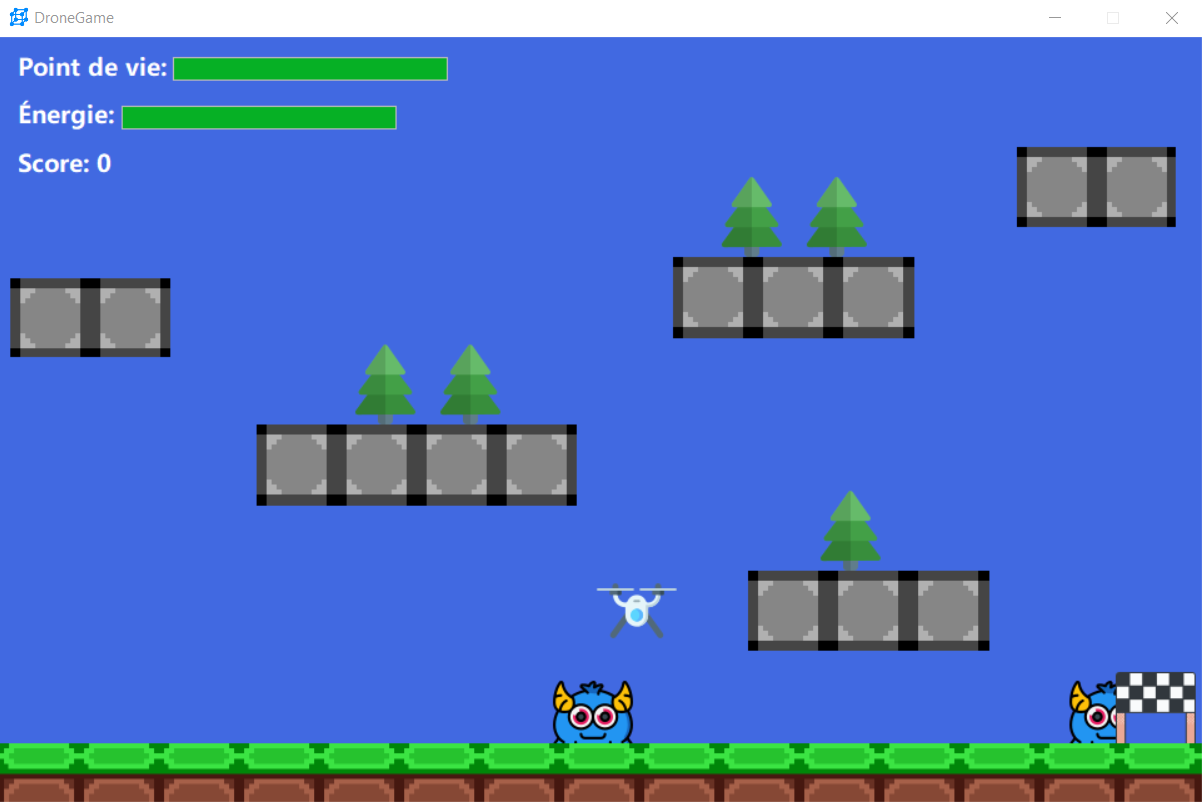
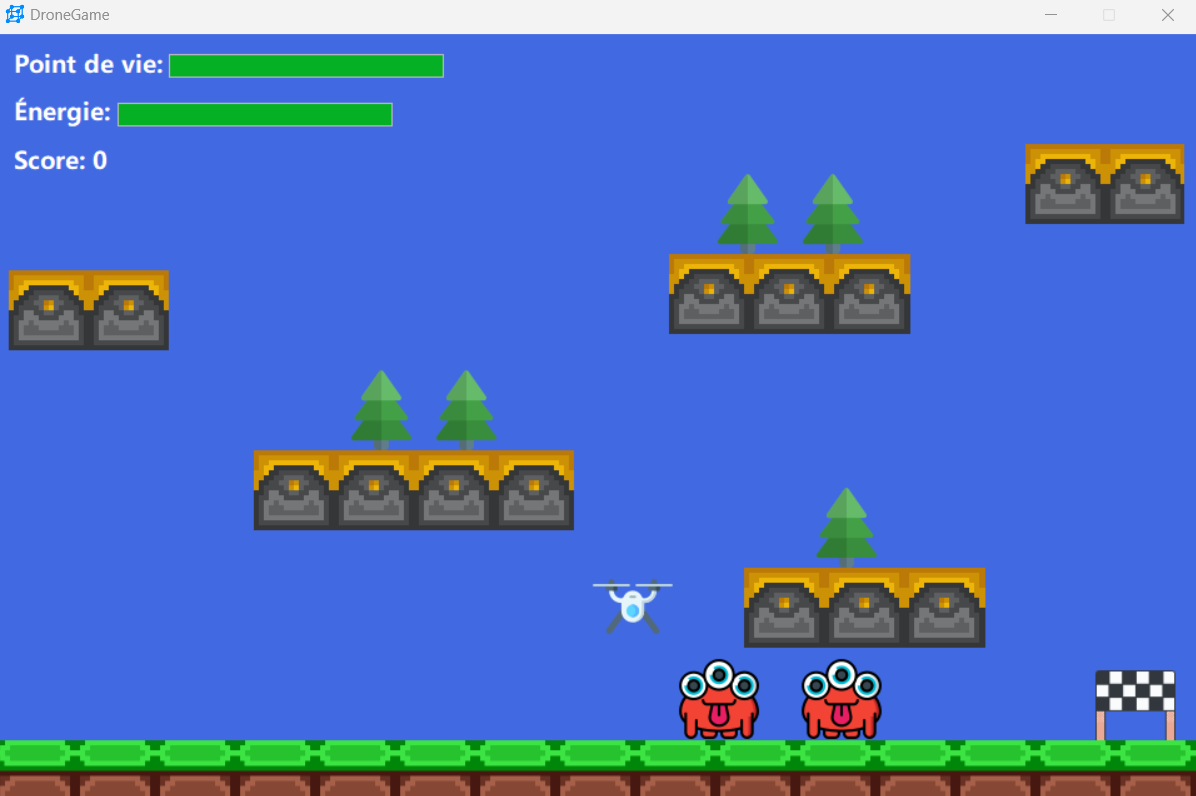
Add dynamite to the game + fixes.

diff --git a/main.Designer.cs b/main.Designer.cs
@@ -51,6 +51,8 @@ namespace DroneGame
             this.pineTree4 = new System.Windows.Forms.PictureBox();
             this.pineTree5 = new System.Windows.Forms.PictureBox();
             this.pineTree6 = new System.Windows.Forms.PictureBox();
+            this.dynamiteCountDown = new System.Windows.Forms.Timer(this.components);
+            this.dynamiteSpawnDelay = new System.Windows.Forms.Timer(this.components);
             ((System.ComponentModel.ISupportInitialize)(this.pineTree1)).BeginInit();
             ((System.ComponentModel.ISupportInitialize)(this.grass)).BeginInit();
             ((System.ComponentModel.ISupportInitialize)(this.Drone)).BeginInit();
@@ -127,13 +129,13 @@ namespace DroneGame
             // PositionDetector
             // 
             this.PositionDetector.Enabled = true;
-            this.PositionDetector.Interval = 4000;
+            this.PositionDetector.Interval = 6000;
             this.PositionDetector.Tick += new System.EventHandler(this.PositionChecker);
             // 
             // pineTree1
             // 
             this.pineTree1.Image = global::DroneGame.Properties.Resources.pine_tree;
-            this.pineTree1.Location = new System.Drawing.Point(369, 303);
+            this.pineTree1.Location = new System.Drawing.Point(369, 331);
             this.pineTree1.Margin = new System.Windows.Forms.Padding(3, 2, 3, 2);
             this.pineTree1.Name = "pineTree1";
             this.pineTree1.Size = new System.Drawing.Size(64, 64);
@@ -166,7 +168,7 @@ namespace DroneGame
             // Flag
             // 
             this.Flag.Image = global::DroneGame.Properties.Resources.finish_line;
-            this.Flag.Location = new System.Drawing.Point(1191, 625);
+            this.Flag.Location = new System.Drawing.Point(1173, 626);
             this.Flag.Margin = new System.Windows.Forms.Padding(3, 2, 3, 2);
             this.Flag.Name = "Flag";
             this.Flag.Size = new System.Drawing.Size(64, 64);
@@ -178,7 +180,7 @@ namespace DroneGame
             // stoneBlockE
             // 
             this.stoneBlockE.BackgroundImage = global::DroneGame.Properties.Resources.stone;
-            this.stoneBlockE.Location = new System.Drawing.Point(1085, 108);
+            this.stoneBlockE.Location = new System.Drawing.Point(1099, 108);
             this.stoneBlockE.Margin = new System.Windows.Forms.Padding(3, 2, 3, 2);
             this.stoneBlockE.Name = "stoneBlockE";
             this.stoneBlockE.Size = new System.Drawing.Size(169, 79);
@@ -189,10 +191,10 @@ namespace DroneGame
             // stoneBlockA
             // 
             this.stoneBlockA.BackgroundImage = global::DroneGame.Properties.Resources.stone;
-            this.stoneBlockA.Location = new System.Drawing.Point(12, 238);
+            this.stoneBlockA.Location = new System.Drawing.Point(15, 233);
             this.stoneBlockA.Margin = new System.Windows.Forms.Padding(3, 2, 3, 2);
             this.stoneBlockA.Name = "stoneBlockA";
-            this.stoneBlockA.Size = new System.Drawing.Size(171, 78);
+            this.stoneBlockA.Size = new System.Drawing.Size(171, 79);
             this.stoneBlockA.TabIndex = 24;
             this.stoneBlockA.TabStop = false;
             this.stoneBlockA.Tag = "Patern";
@@ -203,7 +205,7 @@ namespace DroneGame
             this.stoneBlockC.Location = new System.Drawing.Point(719, 217);
             this.stoneBlockC.Margin = new System.Windows.Forms.Padding(3, 2, 3, 2);
             this.stoneBlockC.Name = "stoneBlockC";
-            this.stoneBlockC.Size = new System.Drawing.Size(257, 80);
+            this.stoneBlockC.Size = new System.Drawing.Size(257, 79);
             this.stoneBlockC.TabIndex = 23;
             this.stoneBlockC.TabStop = false;
             this.stoneBlockC.Tag = "Patern";
@@ -222,10 +224,10 @@ namespace DroneGame
             // stoneBlockB
             // 
             this.stoneBlockB.BackgroundImage = global::DroneGame.Properties.Resources.stone;
-            this.stoneBlockB.Location = new System.Drawing.Point(274, 382);
+            this.stoneBlockB.Location = new System.Drawing.Point(276, 410);
             this.stoneBlockB.Margin = new System.Windows.Forms.Padding(3, 2, 3, 2);
             this.stoneBlockB.Name = "stoneBlockB";
-            this.stoneBlockB.Size = new System.Drawing.Size(342, 80);
+            this.stoneBlockB.Size = new System.Drawing.Size(341, 79);
             this.stoneBlockB.TabIndex = 21;
             this.stoneBlockB.TabStop = false;
             this.stoneBlockB.Tag = "Patern";
@@ -257,7 +259,7 @@ namespace DroneGame
             // pineTree5
             // 
             this.pineTree5.Image = global::DroneGame.Properties.Resources.pine_tree;
-            this.pineTree5.Location = new System.Drawing.Point(460, 303);
+            this.pineTree5.Location = new System.Drawing.Point(460, 331);
             this.pineTree5.Margin = new System.Windows.Forms.Padding(3, 2, 3, 2);
             this.pineTree5.Name = "pineTree5";
             this.pineTree5.Size = new System.Drawing.Size(64, 64);
@@ -277,6 +279,17 @@ namespace DroneGame
             this.pineTree6.TabIndex = 35;
             this.pineTree6.TabStop = false;
             this.pineTree6.Tag = "pineTree";
+            // 
+            // dynamiteCountDown
+            // 
+            this.dynamiteCountDown.Interval = 8000;
+            this.dynamiteCountDown.Tick += new System.EventHandler(this.dynamiteExplode);
+            // 
+            // dynamiteSpawnDelay
+            // 
+            this.dynamiteSpawnDelay.Enabled = true;
+            this.dynamiteSpawnDelay.Interval = 8000;
+            this.dynamiteSpawnDelay.Tick += new System.EventHandler(this.addDynamite);
             // 
             // DroneGameWindow
             // 
@@ -351,6 +364,8 @@ namespace DroneGame
         private System.Windows.Forms.PictureBox pineTree4;
         private System.Windows.Forms.PictureBox pineTree5;
         private System.Windows.Forms.PictureBox pineTree6;
+        private System.Windows.Forms.Timer dynamiteCountDown;
+        private System.Windows.Forms.Timer dynamiteSpawnDelay;
     }
 }
 

diff --git a/main.cs b/main.cs
@@ -14,7 +14,7 @@ namespace DroneGame
         int playerSpeed = 10;
         int stopSpawn = 0;
         int batteryCount = 0;
-
+        
         int[] posXRandom = {
             720,
             40,
@@ -24,17 +24,18 @@ namespace DroneGame
 
         int[] posYrandom = {
             370,
-            137,
+            132,
             31,
-            252
+            276
         };
 
-        int monsterSpeed = 5;
+        int monsterSpeed = 4;
 
         string direction;
 
         bool right, left, up, down;
         bool gameOver = false;
+        bool hasDynamite = false;
 
         int scoreCounter = 0;
 
@@ -302,6 +303,23 @@ namespace DroneGame
                 }
             }
 
+            foreach (Control entityDynamite in this.Controls)
+            {
+                if (entityDynamite is PictureBox && (string)entityDynamite.Tag == "dynamite")
+                {
+                    if (Drone.Bounds.IntersectsWith(entityDynamite.Bounds))
+                    {
+
+                        hasDynamite = false;
+                        this.Controls.Remove(entityDynamite);
+                        ((PictureBox)entityDynamite).Dispose();
+                        dynamiteCountDown.Stop();
+                        dynamiteSpawnDelay.Start();
+
+                    }
+                }
+            }
+
             foreach (Control entityProjectiles in this.Controls)
             {
 
@@ -330,7 +348,7 @@ namespace DroneGame
                 {
                     entityProjectiles.Left += monsterSpeed;
 
-                    if (entityProjectiles.Left + entityProjectiles.Width > this.ClientSize.Width)
+                    if (entityProjectiles.Bounds.IntersectsWith(Flag.Bounds))
                     {
                         this.Controls.Remove(entityProjectiles);
                         ((PictureBox)entityProjectiles).Dispose();
@@ -372,7 +390,31 @@ namespace DroneGame
                     spawnMonster();
                 }
             }
-        }  
+        }
+
+        private void spawnDynamite()
+        {
+
+            dynamiteSpawnDelay.Stop();
+
+            int rdCoord = randomNumber.Next(0, 3);
+
+            int rdCoordX = posXRandom[rdCoord];
+            int rdCoordY = posYrandom[rdCoord];
+
+            PictureBox dynamitePicture = new PictureBox();
+            dynamitePicture.SizeMode = PictureBoxSizeMode.AutoSize;
+            dynamitePicture.Image = Properties.Resources.dynamite;
+            dynamitePicture.Tag = "dynamite";
+            dynamitePicture.Location = new Point(rdCoordX, rdCoordY);
+
+            hasDynamite = true;
+
+            dynamiteCountDown.Start();
+
+            this.Controls.Add(dynamitePicture);
+
+        }
 
         private void spawnMonster()
         {
@@ -382,7 +424,7 @@ namespace DroneGame
             monster.Image = Properties.Resources.monster;
             monster.Tag = "Monster";
             monster.Left = randomNumber.Next(0, this.ClientSize.Width - 450);
-            monster.Top = 515;
+            monster.Top = 500;
 
             monsterList.Add(monster);
             this.Controls.Add(monster);
@@ -396,6 +438,21 @@ namespace DroneGame
                 scoreCounter -= 5;
                 Drone.Location = new Point(478, 426);
             }
+        }
+
+        private void dynamiteExplode(object sender, EventArgs e)
+        {
+            if (hasDynamite is true) {
+
+                playerPv = 0;
+                scoreCounter = 0;
+
+            } 
+        }
+
+        private void addDynamite(object sender, EventArgs e)
+        {
+            if (hasDynamite is false && batteryLevel > 0 && batteryCount is 0) spawnDynamite();
         }
 
         private int getNumberOfProjectiles()
@@ -437,6 +494,12 @@ namespace DroneGame
                     this.Controls.Remove(entityToRemoveOnGameOver);
                     ((PictureBox)entityToRemoveOnGameOver).Dispose();
                 }
+                if (entityToRemoveOnGameOver is PictureBox && (string)entityToRemoveOnGameOver.Tag == "dynamite")
+                {
+                    hasDynamite = false;
+                    this.Controls.Remove(entityToRemoveOnGameOver);
+                    ((PictureBox)entityToRemoveOnGameOver).Dispose();
+                }
 
             }
 
@@ -448,6 +511,7 @@ namespace DroneGame
             direction = "unknown";
 
             PositionDetector.Stop();
+            dynamiteSpawnDelay.Stop();
 
         }
 
@@ -476,6 +540,7 @@ namespace DroneGame
             direction = "unknown";
             monsterList.Clear();
             PositionDetector.Start();
+            dynamiteSpawnDelay.Start();
             Clock.Start();
 
             playerSpeed = 10;

diff --git a/Properties/Resources.Designer.cs b/Properties/Resources.Designer.cs
@@ -8,10 +8,10 @@
 // </auto-generated>
 //------------------------------------------------------------------------------
 
-namespace DroneGame.Properties
-{
-
-
+namespace DroneGame.Properties {
+    using System;
+    
+    
     /// <summary>
     ///   Une classe de ressource fortement typée destinée, entre autres, à la consultation des chaînes localisées.
     /// </summary>
@@ -76,6 +76,16 @@ namespace DroneGame.Properties
         internal static System.Drawing.Bitmap drone {
             get {
                 object obj = ResourceManager.GetObject("drone", resourceCulture);
+                return ((System.Drawing.Bitmap)(obj));
+            }
+        }
+        
+        /// <summary>
+        ///   Recherche une ressource localisée de type System.Drawing.Bitmap.
+        /// </summary>
+        internal static System.Drawing.Bitmap dynamite {
+            get {
+                object obj = ResourceManager.GetObject("dynamite", resourceCulture);
                 return ((System.Drawing.Bitmap)(obj));
             }
         }

diff --git a/README.md b/README.md
@@ -14,7 +14,7 @@ Vous pouvez directement cliquer ici: https://github.com/Nde-Code/DroneGame/relea
 
 # Régles, But et Contrôles:
 
-Le but du jeu est simple, tuer tous les petits monstres avant qu'il ne traverse l'arène, sinon vous perdez du score. Lorsque vous tirez, vous perdez de la batterie que vous devez aller chercher une fois 30% atteint, sans toucher les passerelles sinon vous perdez aussi des vies (et il en va de même pour les sapins), et vous êtes téléporté au contact des monstres qui font très mal ! Une fois que vous n'avez plus de vie, la partie s'arrête, et vous devez appuyer sur la touche "Entrer" pour relancer le jeu. Pour monter, appuyez la le flèche vers le haut de votre clavier, pour descendre, sur la flèche du bas, pour aller à gauche, appuyez sur la flèche vers la gauche, et pour aller à droite, appuyez sur la flèche vers la droite. Vous devez être mobile sinon vous perdez également des vies mais aussi du score et vous êtes téléporté au centre de la carte. 
+Le but du jeu est simple : éliminer tous les petits monstres avant qu'ils ne traversent l'arène, sinon vous perdrez des points. Chaque fois que vous tirez, vous consommez de la batterie, que vous devrez recharger une fois qu'elle atteint 30 %. Faites attention à ne pas toucher les passerelles, car cela vous coûterait des vies (de même pour les sapins), et vous seriez téléporté au milieu des monstres, ce qui peut être très dangereux ! Lorsque vous n'avez plus de vies, la partie prend fin, et vous pouvez appuyer sur la touche "Entrée" pour relancer le jeu. Pour vous déplacer, utilisez les touches fléchées de votre clavier : la flèche vers le haut pour monter, la flèche vers le bas pour descendre, la flèche vers la gauche pour aller à gauche et la flèche vers la droite pour aller à droite. Soyez agile, car l'immobilité vous fera perdre des vies et des points, et vous serez téléporté au centre de la carte. De temps en temps, une bombe apparaît, et vous devez vous dépêcher pour la détruire, sinon votre score retombera à zéro, et la partie prendra fin.
 
 # Informations sur les graphismes:
  
@@ -24,12 +24,13 @@ Les images que j'ai utilisées ne viennent pas toutes de moi, mis appart l'herbe
 
  
 
-- Les monstres par Smashicons: https://www.flaticon.com/free-icon/monster_1236412?term=monster&page=1&position=10&page=1&position=10&related_id=1236412&origin=search
+- Les monstres par Smashicons: https://www.flaticon.com/free-icon/monster_1236448?term=monster&page=1&position=3&origin=search&related_id=1236448
 
  
 
 - La pierre tombale par Freepik: https://www.flaticon.com/free-icon/tombstone_252129?term=tombstone&page=1&position=1&page=1&position=1&related_id=252129&origin=search
  
+
 
 - La batterie par Freepik: https://www.flaticon.com/free-icon/accumulator_3520741?term=accumulator&page=1&position=17&page=1&position=17&related_id=3520741&origin=search
 
@@ -44,6 +45,10 @@ Les images que j'ai utilisées ne viennent pas toutes de moi, mis appart l'herbe
 
 
 - Mon Favicon est fait avec Logomakr: https://logomakr.com/
+
+
+
+- La dynamite par Freepik: https://www.flaticon.com/free-icon/bomb_2716632?term=dynamite&page=1&position=22&origin=search&related_id=2716632
 
 # Note:
 
